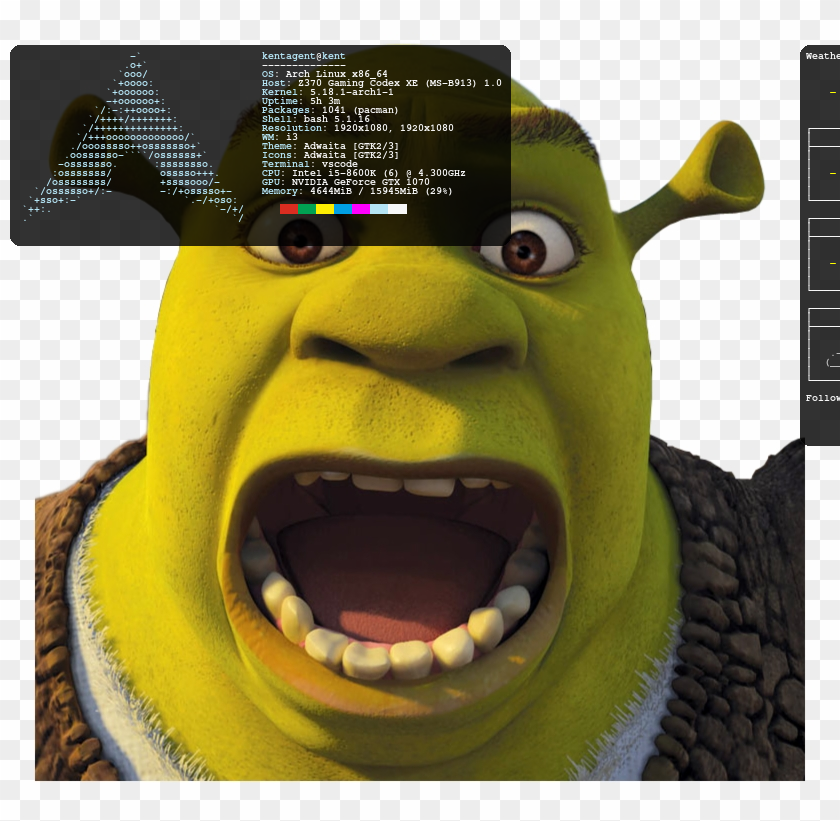
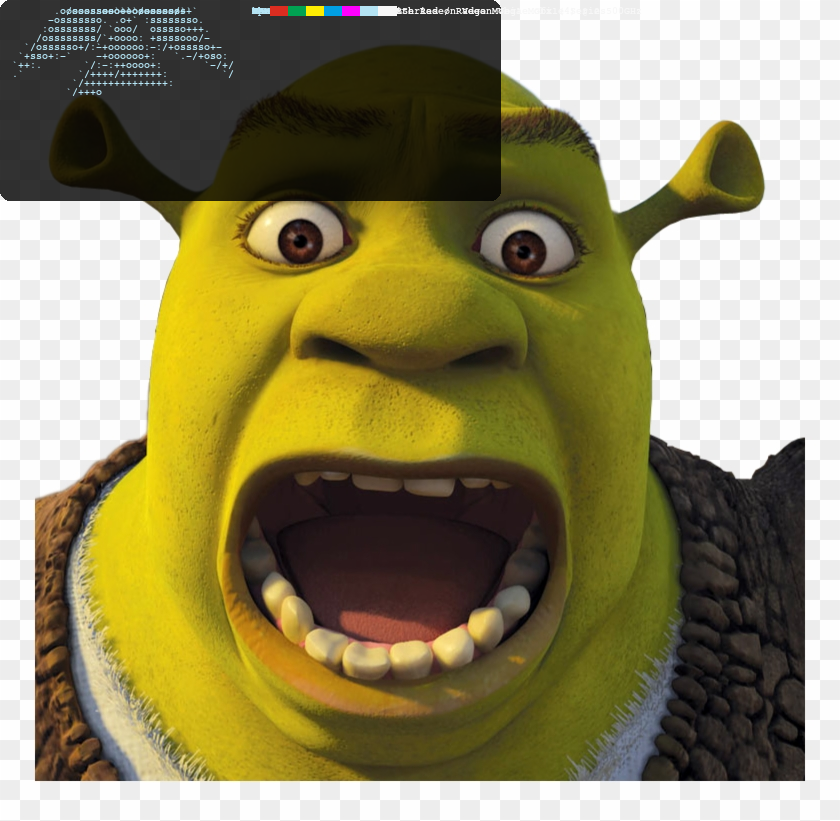
NOT WORKING
Some weird bug where the text isn't handling the newlines properly.
Not sure why right now, guessing that it's some diff from my
implementation and the one before. It might also be the font at fault,
but this is highly unlikely

Changed region(s): [[0.0, 0.0, 0.619, 0.3045], [0.9286, 0.0305, 1.0, 0.5481], [0.5262, 0.1827, 0.5571, 0.2132]]

diff --git a/src/easyrice/__init__.py b/src/easyrice/__init__.py
@@ -6,45 +6,18 @@ import Add
 from PIL import Image,  ImageEnhance, ImageFilter, ImageFont, ImageDraw
 import Textdraw
 import argparse
-from Getimage import get_image
+from Makeimage import make_image
 
-parser = argparse.ArgumentParser(description="Easy rice");
-parser.add_argument("-con","--config", dest="config", type=str, help="Path to configurationfile")
-parser.add_argument("-com", "--commands", dest="command", type=str, help="Path to commandfile")
-parser.add_argument("-d", "--dest", required=True, dest="dest", type=str, help="Path to save file")
-parser.add_argument("-s", "-src", required=True, dest="src", type=str, help="Path to image")
-parser.add_argument("-b", "--black", nargs="?",const="black", default="True", dest="black", type=bool, help="Have a black frame instead of an image")
-args = parser.parse_args()
 
-commands = Config.getcommands(args.command)
-config = Config.getconfig(args.config)
+if __name__ == "__main__":
+   
+    parser = argparse.ArgumentParser(description="Easy rice");
+    parser.add_argument("-con","--config", dest="config", type=str, help="Path to configurationfile")
+    parser.add_argument("-com", "--commands", dest="command", type=str, help="Path to commandfile")
+    parser.add_argument("-d", "--dest", required=True, dest="dest", type=str, help="Path to save file")
+    parser.add_argument("-s", "-src", required=True, dest="src", type=str, help="Path to image")
+    parser.add_argument("-b", "--black", nargs="?",const="black", default="True", dest="black", type=bool, help="Have a black frame instead of an image")
+    args = parser.parse_args()
 
-if (len(sys.argv) < 3):
-	print("Too few commands it needs to be NAME + <filepath>")
-	sys.exit(-1)
-Image.open(args.src, "r")
-img = get_image(args)
-copy = img.copy()
-
-draw = ImageDraw.Draw(copy)
-#TODO FIX SO THIS ISN't HARDCODED
-
-for c in commands:
-	c["x"] = int(c["x"])
-	c["width"] = int(c["width"])
-	c["y"] = int(c["y"])
-	c["heigth"] = int(c["heigth"])
-	Add.addrectangle(draw, c["x"], c["x"] + c["width"], c["y"], c["y"] + c["heigth"])
-img = Image.blend(img, copy, 0.8)
-draw = ImageDraw.Draw(img)
-font = ImageFont.truetype(config["font"].strip("\n"), 15)
-#bold = ImageFont.truetype(config["bold"].strip("\n"))
-#cursive = ImageFont.truetype(config["cursive"].strip("\n"))
-bold = font
-cursive = bold
-text = Textdraw.TextCreation(draw, font, bold,cursive)
-for c in commands:
-	#TODO Maybe? Fix so there are flexible margins.
-	text.commandToText(c["command"], c["x"] + 6, c["y"] + 6, c["width"], c["heigth"])
-img.save(args.dest, "PNG")
-
+   
+    make_image(args.config, args.command, args.dest, args.src)

diff --git a/src/easyrice/Makeimage.py b/src/easyrice/Makeimage.py
@@ -1,0 +1,53 @@
+import Config
+import sys
+import Add
+from PIL import Image,  ImageEnhance, ImageFilter, ImageFont, ImageDraw
+import Textdraw
+import argparse
+
+
+
+
+def get_image(inFile, commands):
+    if inFile == None:
+        return get_black(commands)
+    else:
+        return Image.open(inFile, "r")
+
+def get_black(commands):
+    x = 0
+    y = 0
+    for c in commands:
+        if int(c["x"]) + int(c["width"]) > x:
+            x = int(c["x"]) + int(c["width"])
+        if int(c["y"]) + int(c["heigth"]) > y:
+            y = int(c["y"]) + int(c["width"])
+    return Image.new("RGB", (x,y), (0,0,0))
+
+def make_image(config, commands, out , inFile=None , blend =0.8, fontSize=10):
+    commands = Config.getcommands(commands)
+    config = Config.getconfig(config)
+    
+    img = get_image(inFile, commands)
+
+    copy = img.copy()
+    draw = ImageDraw.Draw(copy)
+
+
+    for c in commands:
+        Add.addrectangle(draw, int(c["x"]), int(c["x"]) + int(c["width"]),
+                int(c["y"]), int(c["y"]) + int(c["height"]))
+
+    img = Image.blend(img,copy, blend)
+    draw = ImageDraw.Draw(img)
+    font = ImageFont.truetype(config["font"].strip("\n"), fontSize)
+    bold = ImageFont.truetype(config["bold"].strip("\n"), fontSize)
+    cursive = ImageFont.truetype(config["cursive"].strip("\n"), fontSize)
+
+    text = Textdraw.TextCreation(draw, font, bold, cursive)
+
+    for c in commands:
+        text.commandToText(c["command"], int(c["x"]) + 6, int(c["y"]) + 6, int(c["width"]), int(c["heigth"]))
+    img.save(out, "PNG")
+    
+

diff --git a/src/easyrice/Textdraw.py b/src/easyrice/Textdraw.py
@@ -21,6 +21,7 @@ class TextCreation:
         self.size = font.getsize("a")
         #THIS IS ADDED AS A SMALL MARGIN BETWEEN THE LINES
         self.size = (self.size[0], self.size[1] + 1)
+        print(self.size)
         self.strikethrough = False
         self.underline = False
 
@@ -66,6 +67,7 @@ class TextCreation:
     def _newline(self):
         self._flush()
         self.pos = (0, self.pos[1] + 1)
+        print("newline")
 
     def _addchar(self, char):
         self.buffer += char
